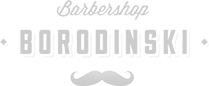
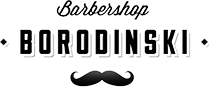
loanding 82%

diff --git a/dev/sass/logotype.scss b/dev/sass/logotype.scss
@@ -6,5 +6,10 @@
 	&__item{
 		width: 300px;
 		text-align: center;
+		opacity: 0.3;
+		transition:0.5s ;
+	}
+	&__item:hover{
+		opacity: 1;
 	}
 }
